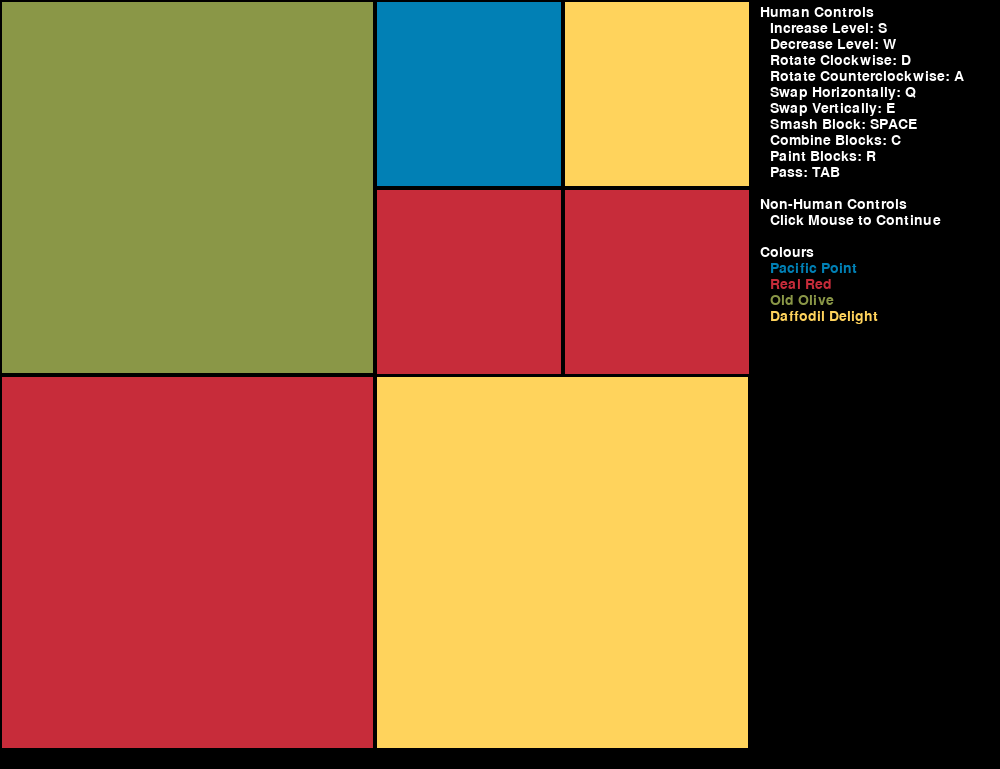
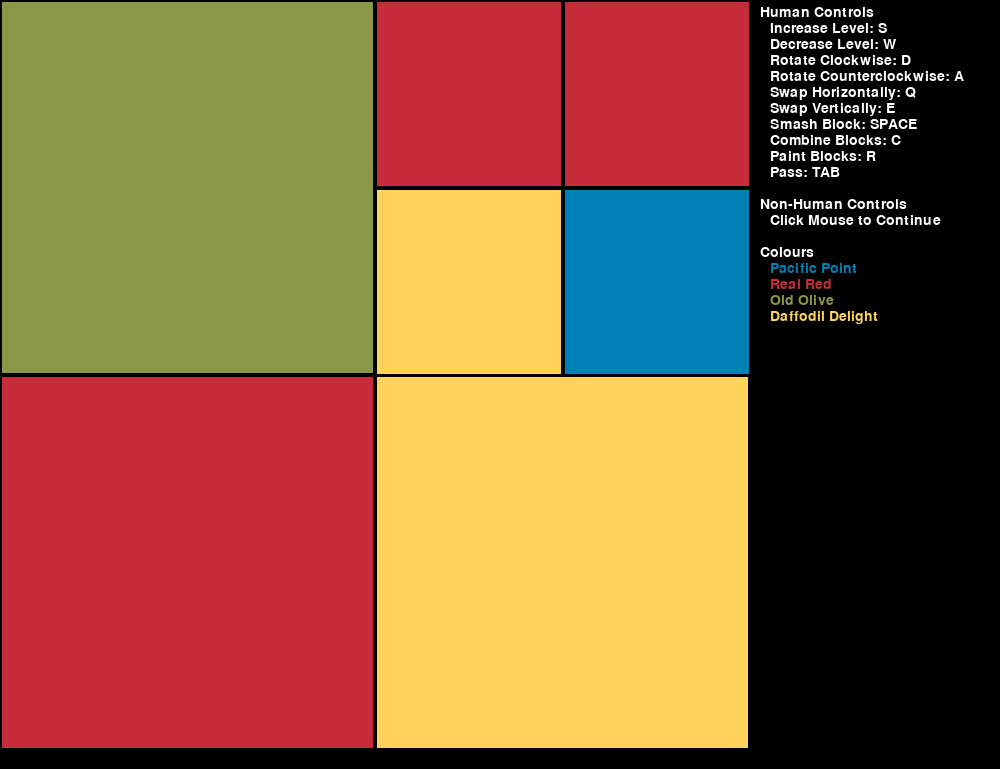
swap and rotate are still buggy

Changed region(s): [[0.372, 0.0, 0.775, 0.4993]]

diff --git a/block.py b/block.py
@@ -254,31 +254,71 @@ class Block:
         """
         # TODO: Implement me
         # Base case: Block has no children
-        if not self.children:
-            return False
-        else:  # block has children and we're swapping them
-            c = self.children
+        if self.children: # block has children and we're swapping them
             cp = self._children_positions() # a list of children's position
             tr, tl ,bl, br = cp[0], cp[1], cp[2], cp[3]
-            # Case 1: Swap Vertically
+            # Swap Vertically
             if direction == 1:
-                # set swapped position in self.position
-                c[0].position, c[1].position, c[2].position, \
-                c[3].position = br, bl, tl, tr
-                # set correct order in self.children
-                self.children = [c[3], c[2], c[1], c[0]]
+                for block in self.children:
+                    #Case: child has no children --> directly swap
+                    if not block.children:
+                        if block == self.children[0]:
+                            block.position = br
+                        elif block == self.children[1]:
+                            block.position = bl
+                        elif block == self.children[2]:
+                            block.position = tl
+                        else:
+                            block.position = tr
+                    else:
+                        # we know that this block has children
+                        if block == self.children[0]:
+                            block.position = br
+                            block._update_children_positions(br)
+                        elif block == self.children[1]:
+                            block.position = bl
+                            block._update_children_positions(bl)
+                        elif block == self.children[2]:
+                            block.position = tl
+                            block._update_children_positions(tl)
+                        else:
+                            block.position = tr
+                            block._update_children_positions(tr)
+                self.children = [self.children[3], self.children[2],
+                                 self.children[1], self.children[0]]
                 return True
-            # Case 2: Swap Horizontally
-            elif direction == 0:
-                # set correct order in self.children
-                self.children = [c[1], c[0], c[3], c[2]]
-                # set swapped position in self.position
-                c[0].position, c[1].position, c[2].position, \
-                c[3].position = tl, tr, br, bl
-
-                return True
+            # Swap Horizontally
             else:
-                return False
+                for block in self.children:
+                    #Case: child has no children --> directly swap
+                    if not block.children:
+                        if block == self.children[0]:
+                            block.position = tl
+                        elif block == self.children[1]:
+                            block.position = tr
+                        elif block == self.children[2]:
+                            block.position = br
+                        else:
+                            block.position = bl
+                    else:
+                        # we know that this block has children
+                        if block == self.children[0]:
+                            block.position = tl
+                            block._update_children_positions(tl)
+                        elif block == self.children[1]:
+                            block.position = tr
+                            block._update_children_positions(tr)
+                        elif block == self.children[2]:
+                            block.position = br
+                            block._update_children_positions(br)
+                        else:
+                            block.position = bl
+                            block._update_children_positions(bl)
+                self.children = [self.children[1], self.children[0],
+                                 self.children[3], self.children[2]]
+                return True
+        else:
+            return False
 
     def rotate(self, direction: int) -> bool:
         """Rotate this Block and all its descendants.
@@ -291,35 +331,54 @@ class Block:
         Precondition: <direction> is either 1 or 3.
         """
         # TODO: Implement me
-        # Base case: Block has no children
-        if not self.children:
-            return False
-        else:
-            c = self.children
+        if self.children:
             cp = self._children_positions() # a list of children's position
             tr, tl ,bl, br = cp[0], cp[1], cp[2], cp[3]
-            # Case 1: Clockwise rotation
+            # Clockwise rotation
             if direction == 1:
-                self.children = [c[1], c[2], c[3], c[0]]
-                # set rotated position
-                c[0].position, c[1].position, c[2].position, \
-                c[3].position = tl, bl, br, tr
-                # recurse on each child of block
-                for child in self.children:
-                    child.rotate(1)
+                for block in self.children:
+                    # Case 1: Block has no children
+                    if block.colour:
+                    # Directly move the block into position
+                        if block == self.children[0]:
+                            block.position = br
+                        elif block == self.children[1]:
+                            block.position = tr
+                        elif block == self.children[2]:
+                            block.position = tl
+                        else:
+                            block.position = bl
+                    # Case 2: Block has children
+                    else:
+                        block.rotate(direction)
+                self.children = [self.children[1], self.children[2],
+                                 self.children[3], self.children[0]]
                 return True
-            # Case 2: Counter-clockwise rotation
-            elif direction == 3:
-                self.children = [c[3], c[0], c[1], c[2]]
-                # set rotated position on each child
-                c[0].position, c[1].position, c[2].position, \
-                c[3].position = br, tr, tl, bl
-                # recurse on each child of block
-                for child in self.children:
-                    child.rotate(3)
-                return True
+
+            # Counter-clockwise rotation
             else:
-                return False
+                for block in self.children:
+                    # Case 1: Block has no children
+                    if block.colour is not None:
+                    # Directly move the block into position
+                        for block in self.children:
+                            if block == self.children[0]:
+                                block.position = tr
+                            elif block == self.children[1]:
+                                block.position = bl
+                            elif block == self.children[2]:
+                                block.position = br
+                            else:
+                                block.position = tl
+                    # Case 2: Block has children
+                    else:
+                        block.rotate(direction)
+                self.children = [self.children[1], self.children[2],
+                                 self.children[3], self.children[0]]
+                return True
+        else:
+            # Block has no children so nothing is done
+            return False
 
     def paint(self, colour: Tuple[int, int, int]) -> bool:
         """Change this Block's colour iff it is a leaf at a level of max_depth
